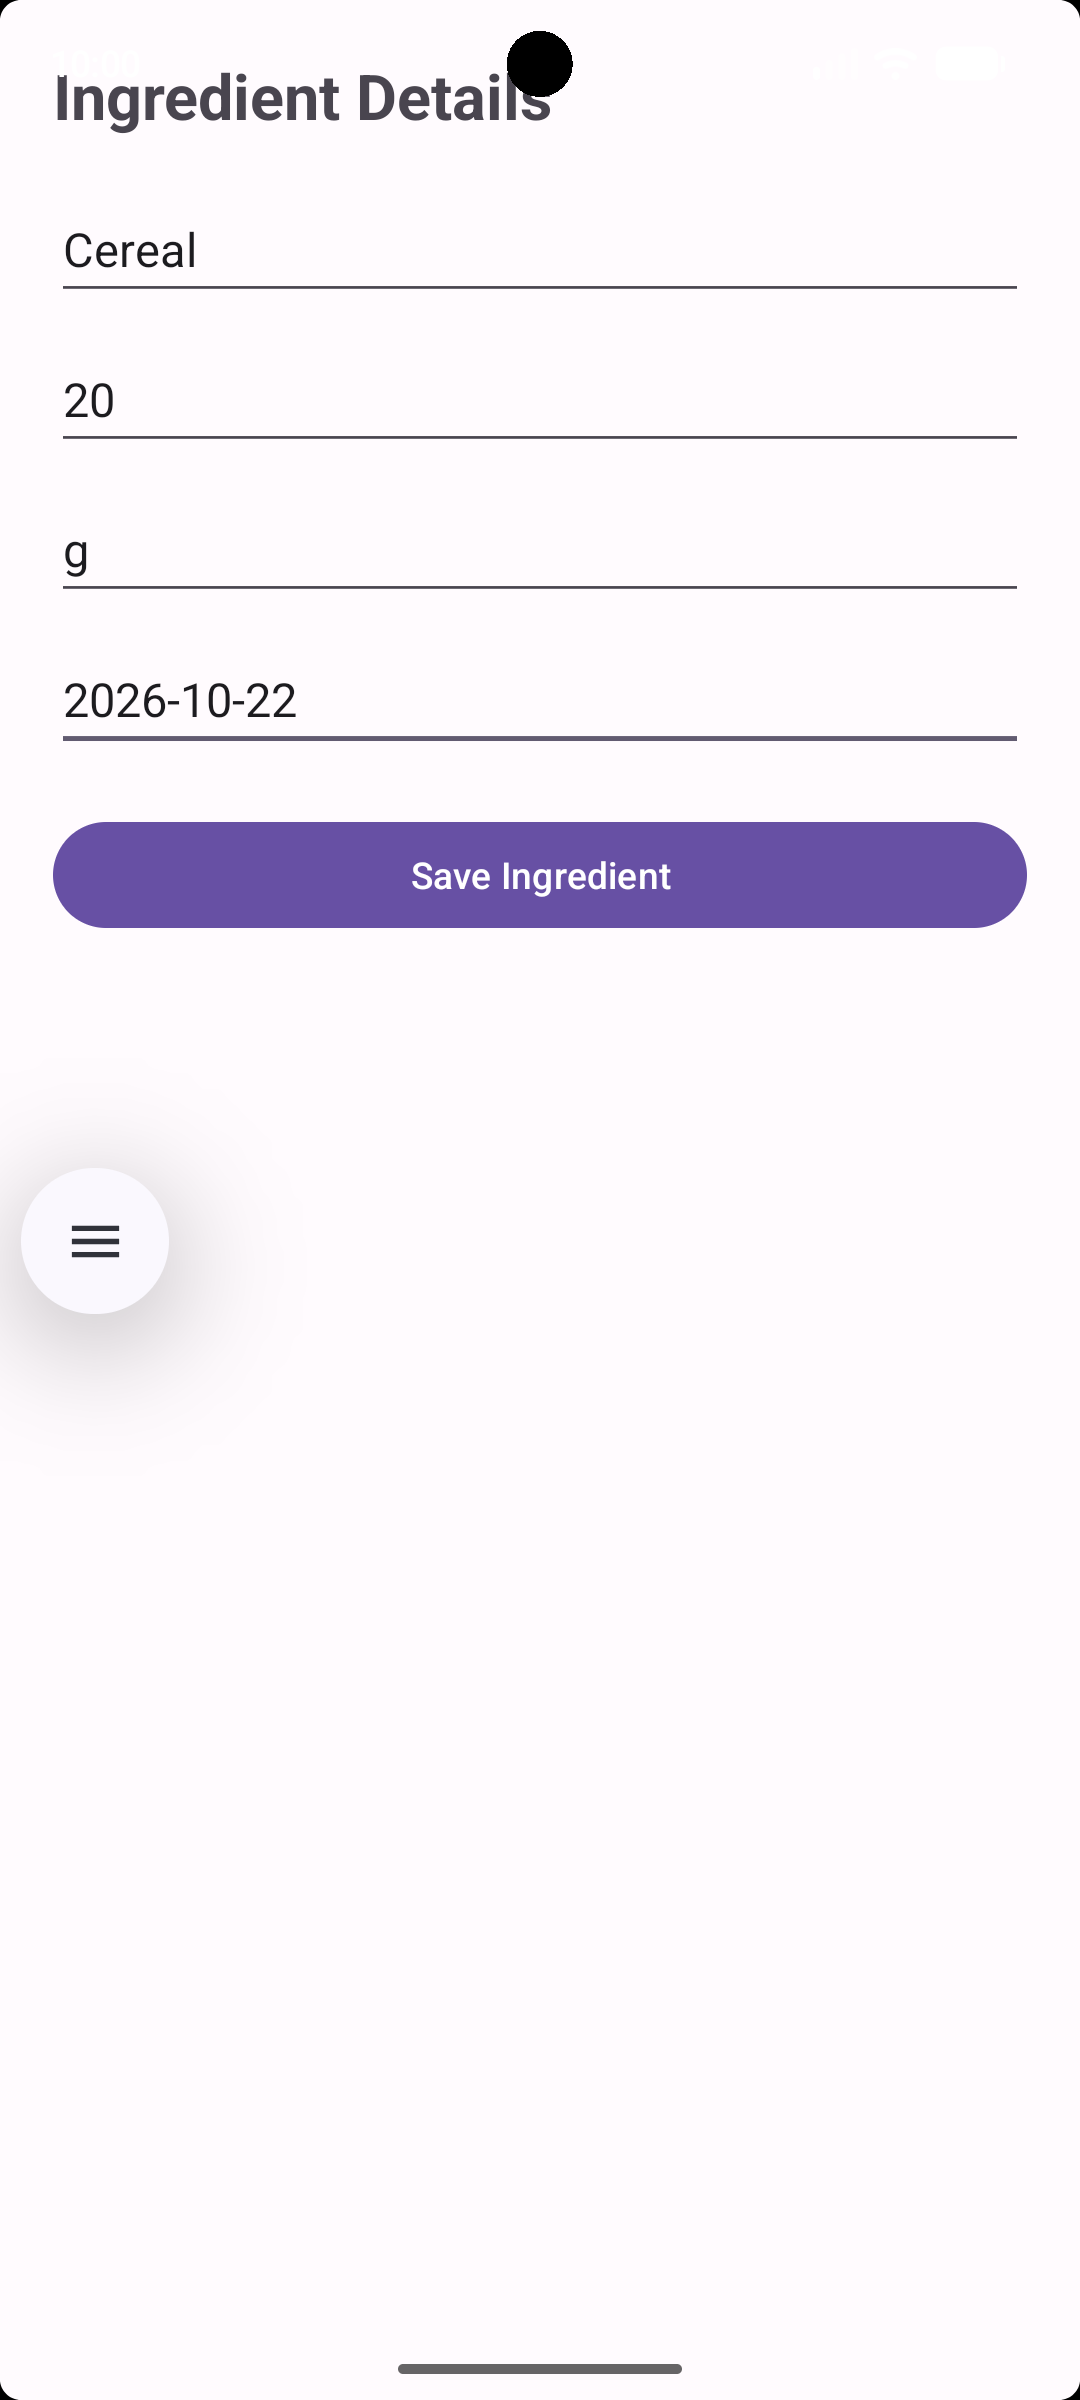
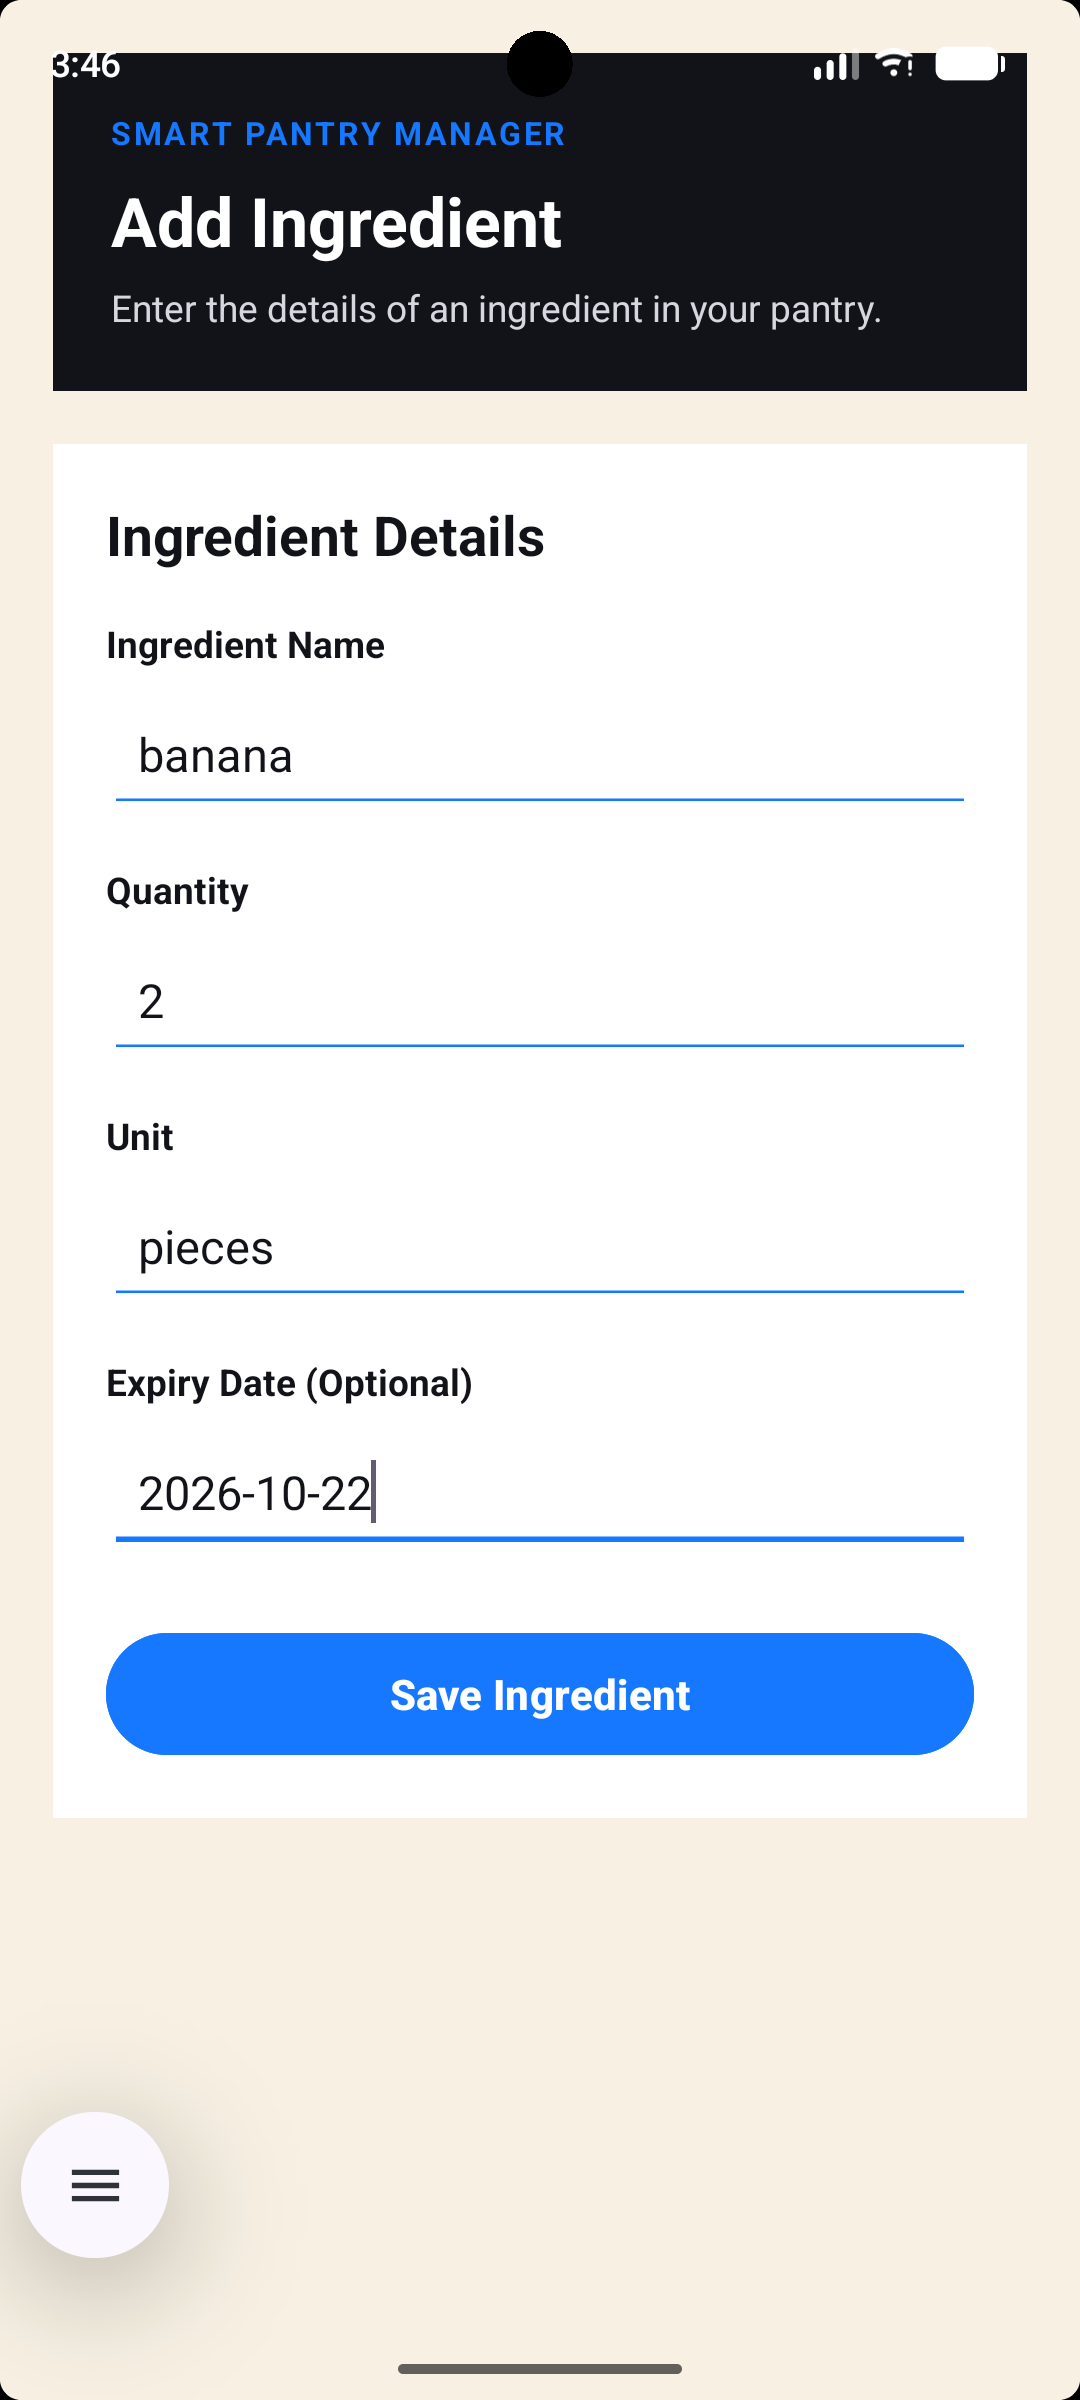
Update app screenshots and README

diff --git a/README.md b/README.md
@@ -60,9 +60,9 @@ their pantry ingredients and identify recipes they can prepare with what they ha
 
 Screenshots 
 The following screenshots  will show the main features and screens of this   Smart Pantry Manager  application.
-1. Pantry Home Screen
+1. Ingredient list
 
-![Pantry Home Screen](screenshots/01pantryhomescreen.png)
+![Ingredient list](screenshots/01ingredientlist.png)
 
 
 
@@ -73,26 +73,34 @@ The following screenshots  will show the main features and screens of this   Sma
 
 
 
-3. Suggested Recipes
+3. Edit ingredient
 
-![ Suggested Recipes](screenshots/03suggestedrecipes.png)
+![ Edit ingredient](screenshots/03editingredient.png)
  
 
 
 
-4. Recipe Details
+4. Delete Confirmation
 
-![ Recipe Details](screenshots/04recipedetails.png)
-
-
-5. Settings Screen
-
-![ Settings Screen](screenshots/05settingsscreen.png)
+![ Delete Confirmation](screenshots/04deleteconfirmation.png)
 
 
-6. Input Validation
+5. Validation error
 
-![ Input Validation](screenshots/06inputvalidation.png)
+![ Validation  error](screenshots/05validationerror.png)
+
+
+6. Suggested Recipes
+
+![ Suggested Recipes](screenshots/06suggestedrecipes.png)
+
+7. Recipe Details
+
+![Recipe Details](screenshots/07recipedetails)
+
+8.Settings
+
+![Settings](screenshot/08settings)
 
 
 
